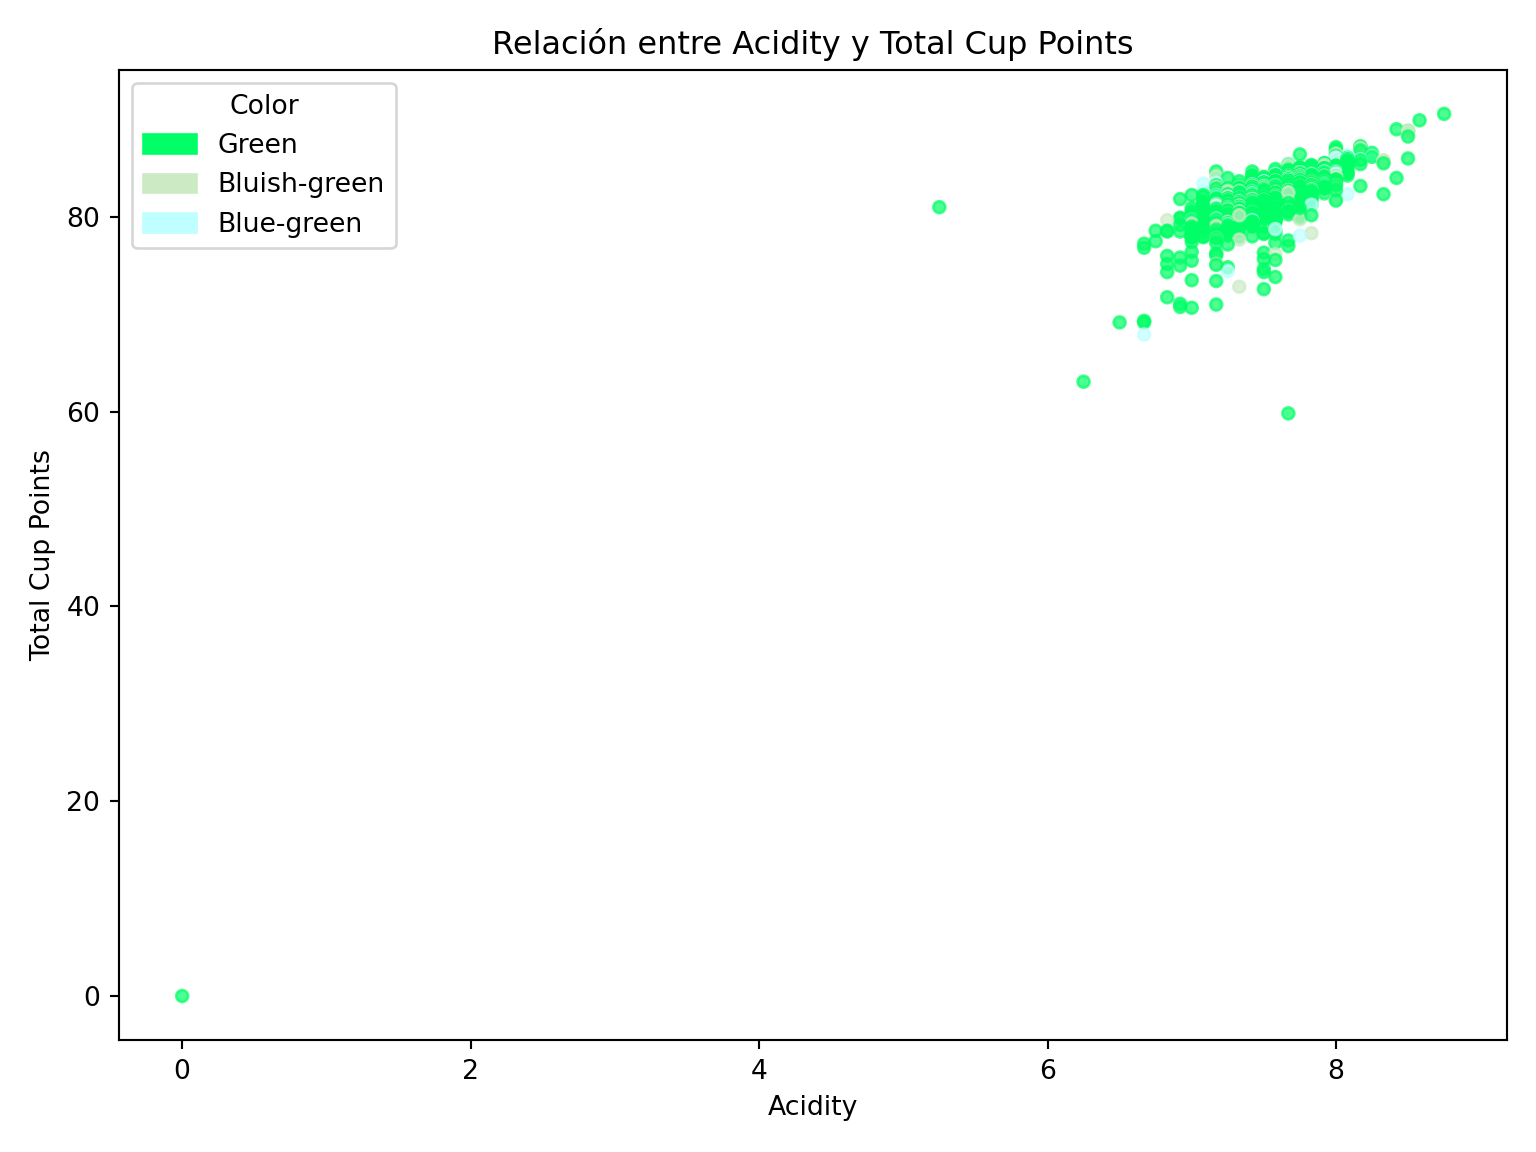
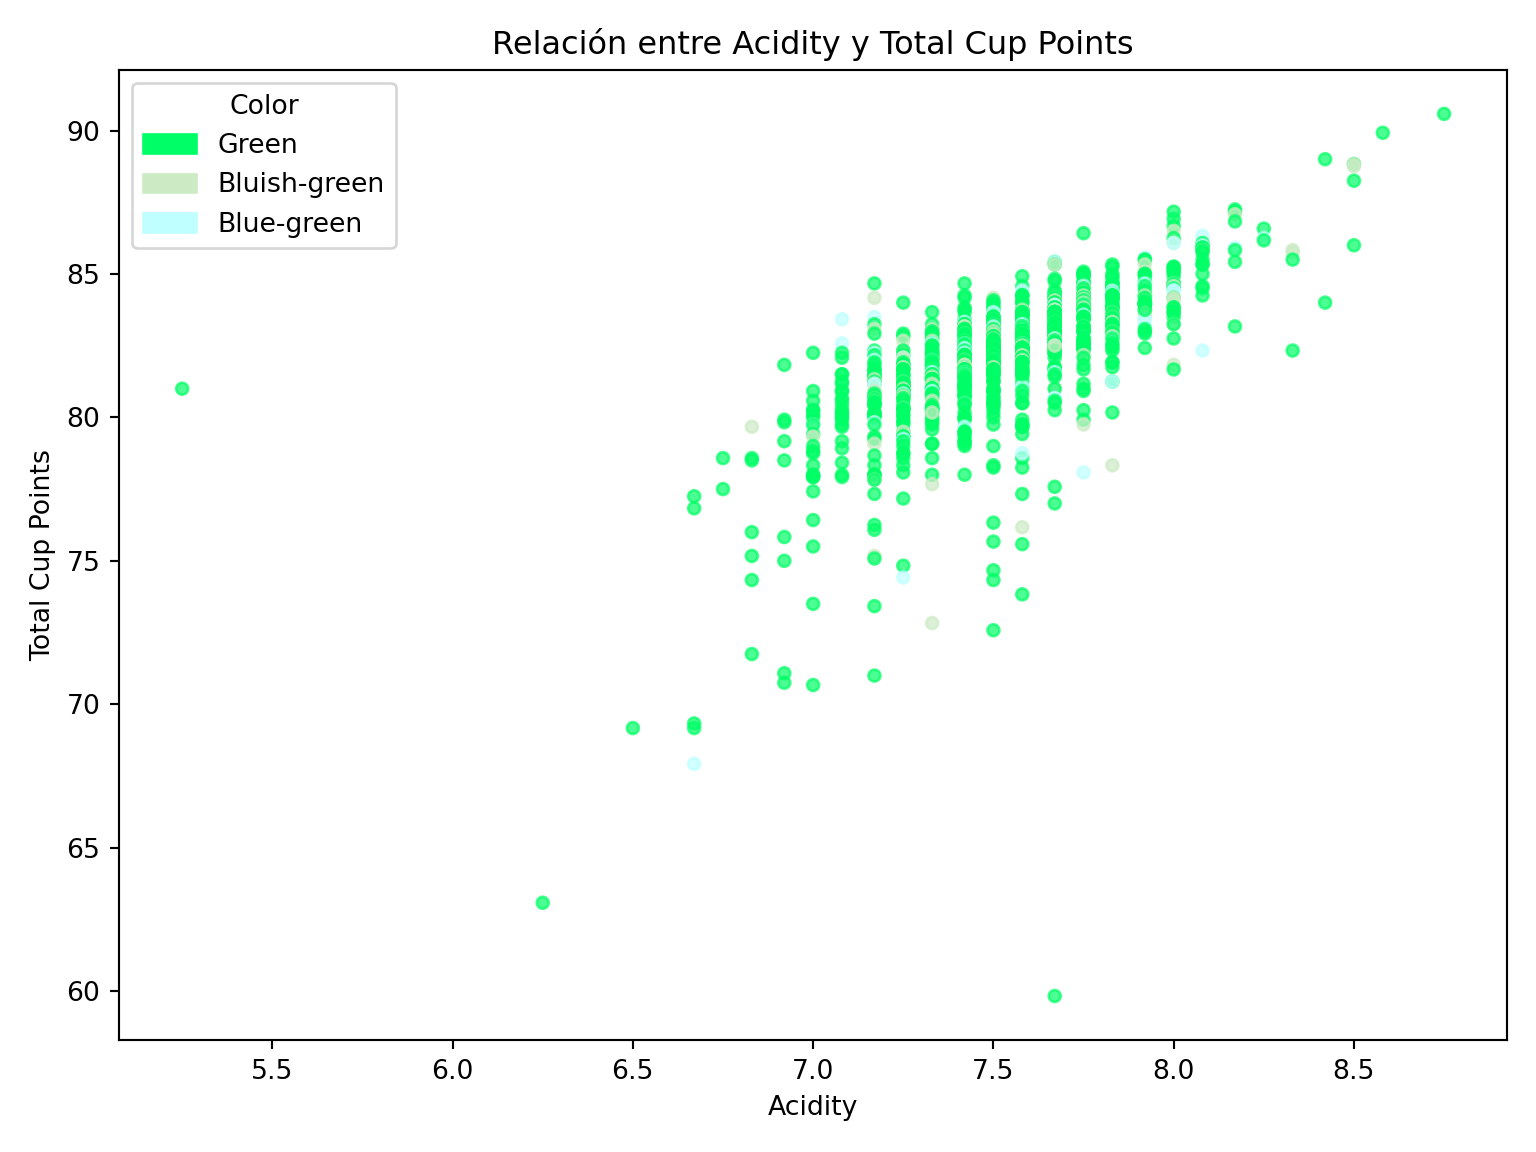
Corregir gráfica actividad 6

diff --git a/docs/03-coffee-ratings/parte3-coffee-ratings.html b/docs/03-coffee-ratings/parte3-coffee-ratings.html
@@ -479,8 +479,8 @@ code.sourceCode.python::before{content:'Python'; float:right}
 <span id="cb2-8"><a href="#cb2-8" aria-hidden="true" tabindex="-1"></a><span class="im">from</span> scipy.interpolate <span class="im">import</span> make_interp_spline</span>
 <span id="cb2-9"><a href="#cb2-9" aria-hidden="true" tabindex="-1"></a>plt.ioff()</span></code></pre></div><button title="Copiar al portapapeles" class="code-copy-button"><i class="bi"></i></button></div>
 <div class="cell-output cell-output-stdout">
-<pre><code>&lt;contextlib.ExitStack object at 0x000002B34E280050&gt;
-&lt;contextlib.ExitStack object at 0x000002B351128E10&gt;</code></pre>
+<pre><code>&lt;contextlib.ExitStack object at 0x000001933B1D0050&gt;
+&lt;contextlib.ExitStack object at 0x000001933E034B90&gt;</code></pre>
 </div>
 </div>
 <p>Se usará el conjunto de datos de encuesta de café <code>coffee_ratings.csv</code></p>
@@ -1228,20 +1228,28 @@ tipos: 47</code></pre>
 <h1>Actividad 6</h1>
 <p>Elabore una visualización con <code>ggplot2</code> que identifique alguna relación entre las columnas total_cup_points, acidity y color2 de tal forma que se puedan identificar los colores de la variable color2. Es decir, debemos ver los colores, “#00FF66”, “#CCEBC5” y “#BFFFFF”.</p>
 <div class="cell">
-<div class="code-copy-outer-scaffold"><div class="sourceCode cell-code" id="cb66"><pre class="sourceCode r code-with-copy"><code class="sourceCode r"><span id="cb66-1"><a href="#cb66-1" aria-hidden="true" tabindex="-1"></a><span class="fu">ggplot</span>(datos, <span class="fu">aes</span>(<span class="at">x =</span> acidity, <span class="at">y =</span> total_cup_points, <span class="at">color =</span> color2)) <span class="sc">+</span></span>
-<span id="cb66-2"><a href="#cb66-2" aria-hidden="true" tabindex="-1"></a>  <span class="fu">geom_point</span>(<span class="at">size =</span> <span class="fl">1.5</span>, <span class="at">alpha =</span> <span class="dv">2</span>) <span class="sc">+</span></span>
-<span id="cb66-3"><a href="#cb66-3" aria-hidden="true" tabindex="-1"></a>  <span class="fu">scale_color_identity</span>(</span>
-<span id="cb66-4"><a href="#cb66-4" aria-hidden="true" tabindex="-1"></a>    <span class="at">guide =</span> <span class="st">"legend"</span>,</span>
-<span id="cb66-5"><a href="#cb66-5" aria-hidden="true" tabindex="-1"></a>    <span class="at">labels =</span> <span class="fu">c</span>(<span class="st">"Green"</span>, <span class="st">"Bluish-green"</span>, <span class="st">"Blue-green"</span>),</span>
-<span id="cb66-6"><a href="#cb66-6" aria-hidden="true" tabindex="-1"></a>    <span class="at">breaks =</span> <span class="fu">c</span>(<span class="st">"#00FF66"</span>, <span class="st">"#CCEBC5"</span>, <span class="st">"#BFFFFF"</span>),</span>
-<span id="cb66-7"><a href="#cb66-7" aria-hidden="true" tabindex="-1"></a>    <span class="at">name =</span> <span class="st">"Color"</span></span>
-<span id="cb66-8"><a href="#cb66-8" aria-hidden="true" tabindex="-1"></a>  ) <span class="sc">+</span></span>
-<span id="cb66-9"><a href="#cb66-9" aria-hidden="true" tabindex="-1"></a>  <span class="fu">labs</span>(</span>
-<span id="cb66-10"><a href="#cb66-10" aria-hidden="true" tabindex="-1"></a>    <span class="at">title =</span> <span class="st">"Relación entre Acidity y Total Cup Points"</span>, </span>
-<span id="cb66-11"><a href="#cb66-11" aria-hidden="true" tabindex="-1"></a>    <span class="at">x =</span> <span class="st">"Acidity"</span>, </span>
-<span id="cb66-12"><a href="#cb66-12" aria-hidden="true" tabindex="-1"></a>    <span class="at">y =</span> <span class="st">"Total Cup Points"</span></span>
-<span id="cb66-13"><a href="#cb66-13" aria-hidden="true" tabindex="-1"></a>  ) <span class="sc">+</span></span>
-<span id="cb66-14"><a href="#cb66-14" aria-hidden="true" tabindex="-1"></a>  <span class="fu">theme_minimal</span>()</span></code></pre></div><button title="Copiar al portapapeles" class="code-copy-button"><i class="bi"></i></button></div>
+<div class="code-copy-outer-scaffold"><div class="sourceCode cell-code" id="cb66"><pre class="sourceCode r code-with-copy"><code class="sourceCode r"><span id="cb66-1"><a href="#cb66-1" aria-hidden="true" tabindex="-1"></a>datos <span class="sc">%&gt;%</span></span>
+<span id="cb66-2"><a href="#cb66-2" aria-hidden="true" tabindex="-1"></a>  dplyr<span class="sc">::</span><span class="fu">filter</span>(<span class="sc">!</span><span class="fu">is.na</span>(color2) <span class="sc">&amp;</span> acidity <span class="sc">!=</span> <span class="dv">0</span> <span class="sc">&amp;</span> total_cup_points <span class="sc">!=</span> <span class="dv">0</span>) <span class="sc">%&gt;%</span></span>
+<span id="cb66-3"><a href="#cb66-3" aria-hidden="true" tabindex="-1"></a>  <span class="fu">ggplot</span>(<span class="fu">aes</span>(<span class="at">x =</span> acidity,</span>
+<span id="cb66-4"><a href="#cb66-4" aria-hidden="true" tabindex="-1"></a>           <span class="at">y =</span> total_cup_points,</span>
+<span id="cb66-5"><a href="#cb66-5" aria-hidden="true" tabindex="-1"></a>           <span class="at">color =</span> color2)) <span class="sc">+</span></span>
+<span id="cb66-6"><a href="#cb66-6" aria-hidden="true" tabindex="-1"></a></span>
+<span id="cb66-7"><a href="#cb66-7" aria-hidden="true" tabindex="-1"></a>  <span class="fu">geom_point</span>(<span class="at">size =</span> <span class="fl">1.5</span>, <span class="at">alpha =</span> <span class="dv">2</span>) <span class="sc">+</span></span>
+<span id="cb66-8"><a href="#cb66-8" aria-hidden="true" tabindex="-1"></a></span>
+<span id="cb66-9"><a href="#cb66-9" aria-hidden="true" tabindex="-1"></a>  <span class="fu">scale_color_identity</span>(</span>
+<span id="cb66-10"><a href="#cb66-10" aria-hidden="true" tabindex="-1"></a>    <span class="at">guide =</span> <span class="st">"legend"</span>,</span>
+<span id="cb66-11"><a href="#cb66-11" aria-hidden="true" tabindex="-1"></a>    <span class="at">labels =</span> <span class="fu">c</span>(<span class="st">"Green"</span>, <span class="st">"Bluish-green"</span>, <span class="st">"Blue-green"</span>),</span>
+<span id="cb66-12"><a href="#cb66-12" aria-hidden="true" tabindex="-1"></a>    <span class="at">breaks =</span> <span class="fu">c</span>(<span class="st">"#00FF66"</span>, <span class="st">"#CCEBC5"</span>, <span class="st">"#BFFFFF"</span>),</span>
+<span id="cb66-13"><a href="#cb66-13" aria-hidden="true" tabindex="-1"></a>    <span class="at">name =</span> <span class="st">"Color"</span></span>
+<span id="cb66-14"><a href="#cb66-14" aria-hidden="true" tabindex="-1"></a>  ) <span class="sc">+</span></span>
+<span id="cb66-15"><a href="#cb66-15" aria-hidden="true" tabindex="-1"></a></span>
+<span id="cb66-16"><a href="#cb66-16" aria-hidden="true" tabindex="-1"></a>  <span class="fu">labs</span>(</span>
+<span id="cb66-17"><a href="#cb66-17" aria-hidden="true" tabindex="-1"></a>    <span class="at">title =</span> <span class="st">"Relación entre Acidity y Total Cup Points"</span>,</span>
+<span id="cb66-18"><a href="#cb66-18" aria-hidden="true" tabindex="-1"></a>    <span class="at">x =</span> <span class="st">"Acidity"</span>,</span>
+<span id="cb66-19"><a href="#cb66-19" aria-hidden="true" tabindex="-1"></a>    <span class="at">y =</span> <span class="st">"Total Cup Points"</span></span>
+<span id="cb66-20"><a href="#cb66-20" aria-hidden="true" tabindex="-1"></a>  ) <span class="sc">+</span></span>
+<span id="cb66-21"><a href="#cb66-21" aria-hidden="true" tabindex="-1"></a></span>
+<span id="cb66-22"><a href="#cb66-22" aria-hidden="true" tabindex="-1"></a>  <span class="fu">theme_minimal</span>()</span></code></pre></div><button title="Copiar al portapapeles" class="code-copy-button"><i class="bi"></i></button></div>
 <div class="cell-output-display">
 <div>
 <figure class="figure">
@@ -1263,33 +1271,35 @@ tipos: 47</code></pre>
 <div class="cell">
 <div class="code-copy-outer-scaffold"><div class="sourceCode cell-code" id="cb69"><pre class="sourceCode python code-with-copy"><code class="sourceCode python"><span id="cb69-1"><a href="#cb69-1" aria-hidden="true" tabindex="-1"></a><span class="im">import</span> matplotlib.patches <span class="im">as</span> mpatches</span>
 <span id="cb69-2"><a href="#cb69-2" aria-hidden="true" tabindex="-1"></a></span>
-<span id="cb69-3"><a href="#cb69-3" aria-hidden="true" tabindex="-1"></a>datos2 <span class="op">=</span> datos.dropna(subset<span class="op">=</span>[<span class="st">'color2'</span>])</span>
-<span id="cb69-4"><a href="#cb69-4" aria-hidden="true" tabindex="-1"></a></span>
-<span id="cb69-5"><a href="#cb69-5" aria-hidden="true" tabindex="-1"></a>plt.figure(figsize<span class="op">=</span>(<span class="dv">8</span>,<span class="dv">6</span>))</span>
-<span id="cb69-6"><a href="#cb69-6" aria-hidden="true" tabindex="-1"></a>plt.scatter(</span>
-<span id="cb69-7"><a href="#cb69-7" aria-hidden="true" tabindex="-1"></a>    datos2[<span class="st">'acidity'</span>],</span>
-<span id="cb69-8"><a href="#cb69-8" aria-hidden="true" tabindex="-1"></a>    datos2[<span class="st">'total_cup_points'</span>],</span>
-<span id="cb69-9"><a href="#cb69-9" aria-hidden="true" tabindex="-1"></a>    c<span class="op">=</span>datos2[<span class="st">'color2'</span>],</span>
-<span id="cb69-10"><a href="#cb69-10" aria-hidden="true" tabindex="-1"></a>    s<span class="op">=</span><span class="dv">20</span>,</span>
-<span id="cb69-11"><a href="#cb69-11" aria-hidden="true" tabindex="-1"></a>    alpha<span class="op">=</span><span class="fl">0.7</span></span>
-<span id="cb69-12"><a href="#cb69-12" aria-hidden="true" tabindex="-1"></a>)</span>
-<span id="cb69-13"><a href="#cb69-13" aria-hidden="true" tabindex="-1"></a>plt.title(<span class="st">"Relación entre Acidity y Total Cup Points"</span>)</span>
-<span id="cb69-14"><a href="#cb69-14" aria-hidden="true" tabindex="-1"></a>plt.xlabel(<span class="st">"Acidity"</span>)</span>
-<span id="cb69-15"><a href="#cb69-15" aria-hidden="true" tabindex="-1"></a>plt.ylabel(<span class="st">"Total Cup Points"</span>)</span>
-<span id="cb69-16"><a href="#cb69-16" aria-hidden="true" tabindex="-1"></a></span>
-<span id="cb69-17"><a href="#cb69-17" aria-hidden="true" tabindex="-1"></a>legend_elements <span class="op">=</span> [</span>
-<span id="cb69-18"><a href="#cb69-18" aria-hidden="true" tabindex="-1"></a>    mpatches.Patch(color<span class="op">=</span><span class="st">"#00FF66"</span>, label<span class="op">=</span><span class="st">"Green"</span>),</span>
-<span id="cb69-19"><a href="#cb69-19" aria-hidden="true" tabindex="-1"></a>    mpatches.Patch(color<span class="op">=</span><span class="st">"#CCEBC5"</span>, label<span class="op">=</span><span class="st">"Bluish-green"</span>),</span>
-<span id="cb69-20"><a href="#cb69-20" aria-hidden="true" tabindex="-1"></a>    mpatches.Patch(color<span class="op">=</span><span class="st">"#BFFFFF"</span>, label<span class="op">=</span><span class="st">"Blue-green"</span>)</span>
-<span id="cb69-21"><a href="#cb69-21" aria-hidden="true" tabindex="-1"></a>]</span>
-<span id="cb69-22"><a href="#cb69-22" aria-hidden="true" tabindex="-1"></a></span>
-<span id="cb69-23"><a href="#cb69-23" aria-hidden="true" tabindex="-1"></a>plt.legend(handles<span class="op">=</span>legend_elements, title<span class="op">=</span><span class="st">"Color"</span>)</span>
-<span id="cb69-24"><a href="#cb69-24" aria-hidden="true" tabindex="-1"></a></span>
-<span id="cb69-25"><a href="#cb69-25" aria-hidden="true" tabindex="-1"></a>plt.grid(<span class="va">False</span>)</span>
-<span id="cb69-26"><a href="#cb69-26" aria-hidden="true" tabindex="-1"></a>plt.tight_layout()</span>
+<span id="cb69-3"><a href="#cb69-3" aria-hidden="true" tabindex="-1"></a><span class="co"># Preparación de datos</span></span>
+<span id="cb69-4"><a href="#cb69-4" aria-hidden="true" tabindex="-1"></a>datos2 <span class="op">=</span> datos[</span>
+<span id="cb69-5"><a href="#cb69-5" aria-hidden="true" tabindex="-1"></a>    (datos[<span class="st">"total_cup_points"</span>] <span class="op">&gt;</span> <span class="dv">0</span>) <span class="op">&amp;</span> (datos[<span class="st">"acidity"</span>] <span class="op">&gt;</span> <span class="dv">0</span>) <span class="op">&amp;</span> (<span class="op">~</span>datos[<span class="st">"color2"</span>].isna())</span>
+<span id="cb69-6"><a href="#cb69-6" aria-hidden="true" tabindex="-1"></a>][[<span class="st">"total_cup_points"</span>, <span class="st">"acidity"</span>, <span class="st">"color2"</span>]]</span>
+<span id="cb69-7"><a href="#cb69-7" aria-hidden="true" tabindex="-1"></a></span>
+<span id="cb69-8"><a href="#cb69-8" aria-hidden="true" tabindex="-1"></a>plt.figure(figsize<span class="op">=</span>(<span class="dv">8</span>,<span class="dv">6</span>))</span>
+<span id="cb69-9"><a href="#cb69-9" aria-hidden="true" tabindex="-1"></a>plt.scatter(</span>
+<span id="cb69-10"><a href="#cb69-10" aria-hidden="true" tabindex="-1"></a>    datos2[<span class="st">'acidity'</span>],</span>
+<span id="cb69-11"><a href="#cb69-11" aria-hidden="true" tabindex="-1"></a>    datos2[<span class="st">'total_cup_points'</span>],</span>
+<span id="cb69-12"><a href="#cb69-12" aria-hidden="true" tabindex="-1"></a>    c<span class="op">=</span>datos2[<span class="st">'color2'</span>],</span>
+<span id="cb69-13"><a href="#cb69-13" aria-hidden="true" tabindex="-1"></a>    s<span class="op">=</span><span class="dv">20</span>,</span>
+<span id="cb69-14"><a href="#cb69-14" aria-hidden="true" tabindex="-1"></a>    alpha<span class="op">=</span><span class="fl">0.7</span></span>
+<span id="cb69-15"><a href="#cb69-15" aria-hidden="true" tabindex="-1"></a>)</span>
+<span id="cb69-16"><a href="#cb69-16" aria-hidden="true" tabindex="-1"></a>plt.title(<span class="st">"Relación entre Acidity y Total Cup Points"</span>)</span>
+<span id="cb69-17"><a href="#cb69-17" aria-hidden="true" tabindex="-1"></a>plt.xlabel(<span class="st">"Acidity"</span>)</span>
+<span id="cb69-18"><a href="#cb69-18" aria-hidden="true" tabindex="-1"></a>plt.ylabel(<span class="st">"Total Cup Points"</span>)</span>
+<span id="cb69-19"><a href="#cb69-19" aria-hidden="true" tabindex="-1"></a></span>
+<span id="cb69-20"><a href="#cb69-20" aria-hidden="true" tabindex="-1"></a>legend_elements <span class="op">=</span> [</span>
+<span id="cb69-21"><a href="#cb69-21" aria-hidden="true" tabindex="-1"></a>    mpatches.Patch(color<span class="op">=</span><span class="st">"#00FF66"</span>, label<span class="op">=</span><span class="st">"Green"</span>),</span>
+<span id="cb69-22"><a href="#cb69-22" aria-hidden="true" tabindex="-1"></a>    mpatches.Patch(color<span class="op">=</span><span class="st">"#CCEBC5"</span>, label<span class="op">=</span><span class="st">"Bluish-green"</span>),</span>
+<span id="cb69-23"><a href="#cb69-23" aria-hidden="true" tabindex="-1"></a>    mpatches.Patch(color<span class="op">=</span><span class="st">"#BFFFFF"</span>, label<span class="op">=</span><span class="st">"Blue-green"</span>)</span>
+<span id="cb69-24"><a href="#cb69-24" aria-hidden="true" tabindex="-1"></a>]</span>
+<span id="cb69-25"><a href="#cb69-25" aria-hidden="true" tabindex="-1"></a></span>
+<span id="cb69-26"><a href="#cb69-26" aria-hidden="true" tabindex="-1"></a>plt.legend(handles<span class="op">=</span>legend_elements, title<span class="op">=</span><span class="st">"Color"</span>)</span>
 <span id="cb69-27"><a href="#cb69-27" aria-hidden="true" tabindex="-1"></a></span>
-<span id="cb69-28"><a href="#cb69-28" aria-hidden="true" tabindex="-1"></a>plt.show()</span>
-<span id="cb69-29"><a href="#cb69-29" aria-hidden="true" tabindex="-1"></a>plt.close()</span></code></pre></div><button title="Copiar al portapapeles" class="code-copy-button"><i class="bi"></i></button></div>
+<span id="cb69-28"><a href="#cb69-28" aria-hidden="true" tabindex="-1"></a>plt.grid(<span class="va">False</span>)</span>
+<span id="cb69-29"><a href="#cb69-29" aria-hidden="true" tabindex="-1"></a>plt.tight_layout()</span>
+<span id="cb69-30"><a href="#cb69-30" aria-hidden="true" tabindex="-1"></a></span>
+<span id="cb69-31"><a href="#cb69-31" aria-hidden="true" tabindex="-1"></a>plt.show()</span></code></pre></div><button title="Copiar al portapapeles" class="code-copy-button"><i class="bi"></i></button></div>
 <div class="cell-output-display">
 <div>
 <figure class="figure">
@@ -1825,8 +1835,7 @@ Conteo por país:
 <span id="cb85-89"><a href="#cb85-89" aria-hidden="true" tabindex="-1"></a><span class="cf">for</span> ax <span class="kw">in</span> g.axes.flat:</span>
 <span id="cb85-90"><a href="#cb85-90" aria-hidden="true" tabindex="-1"></a>    ax.tick_params(axis<span class="op">=</span><span class="st">"x"</span>, rotation<span class="op">=</span><span class="dv">90</span>)</span>
 <span id="cb85-91"><a href="#cb85-91" aria-hidden="true" tabindex="-1"></a>    </span>
-<span id="cb85-92"><a href="#cb85-92" aria-hidden="true" tabindex="-1"></a>plt.show()</span>
-<span id="cb85-93"><a href="#cb85-93" aria-hidden="true" tabindex="-1"></a>plt.close()</span></code></pre></div><button title="Copiar al portapapeles" class="code-copy-button"><i class="bi"></i></button></div>
+<span id="cb85-92"><a href="#cb85-92" aria-hidden="true" tabindex="-1"></a>plt.show()</span></code></pre></div><button title="Copiar al portapapeles" class="code-copy-button"><i class="bi"></i></button></div>
 <div class="cell-output-display">
 <div>
 <figure class="figure">
@@ -2000,8 +2009,7 @@ Conteo por país:
 <span id="cb87-74"><a href="#cb87-74" aria-hidden="true" tabindex="-1"></a>cbar.outline.set_visible(<span class="va">False</span>)</span>
 <span id="cb87-75"><a href="#cb87-75" aria-hidden="true" tabindex="-1"></a></span>
 <span id="cb87-76"><a href="#cb87-76" aria-hidden="true" tabindex="-1"></a><span class="co"># Mostrar el lienzo</span></span>
-<span id="cb87-77"><a href="#cb87-77" aria-hidden="true" tabindex="-1"></a>plt.show()</span>
-<span id="cb87-78"><a href="#cb87-78" aria-hidden="true" tabindex="-1"></a>plt.close()</span></code></pre></div><button title="Copiar al portapapeles" class="code-copy-button"><i class="bi"></i></button></div>
+<span id="cb87-77"><a href="#cb87-77" aria-hidden="true" tabindex="-1"></a>plt.show()</span></code></pre></div><button title="Copiar al portapapeles" class="code-copy-button"><i class="bi"></i></button></div>
 <div class="cell-output-display">
 <div>
 <figure class="figure">
